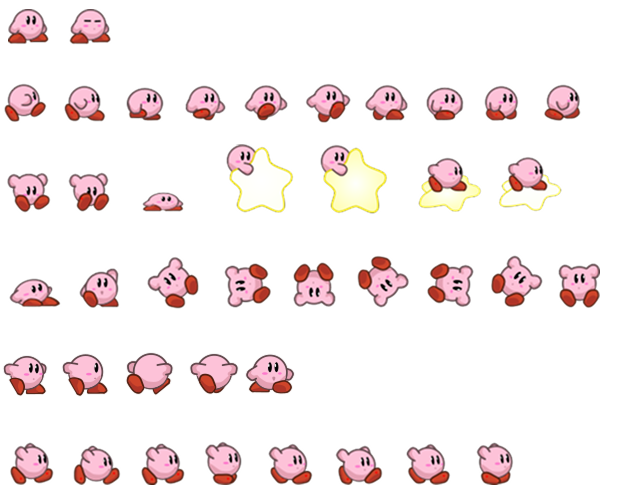
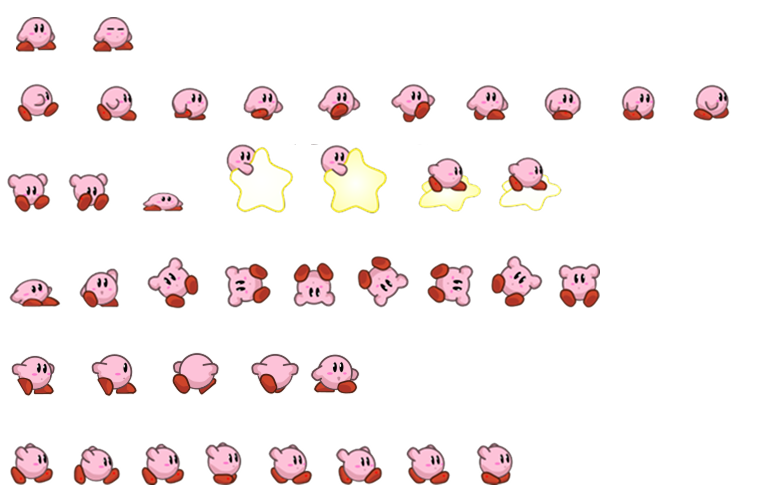
커비 스케일 수정

diff --git a/src/setup/stage_config.js b/src/setup/stage_config.js
@@ -20,8 +20,8 @@ function createStageUnitConfig(stage, imageList = [], spriteSheetList = []) {
             // 유닛 0번 애니메이션
             idle: {
               frameCount: 2,
-              frameWidth: 60,
-              frameHeight: 48,
+              frameWidth: 75,
+              frameHeight: 60,
               startX: 0,
               startY: 0,
               speed: 10,
@@ -29,20 +29,20 @@ function createStageUnitConfig(stage, imageList = [], spriteSheetList = []) {
             },
             walk: {
               frameCount: 10,
-              frameWidth: 60,
-              frameHeight: 48,
+              frameWidth: 75,
+              frameHeight: 60,
               startX: 0,
-              startY: 78,
+              startY: 67,
               speed: 5,
               scale: 0.3,
               spacing: 0,
             },
             attack: {
               frameCount: 4,
-              frameWidth: 60,
-              frameHeight: 48,
+              frameWidth: 75,
+              frameHeight: 60,
               startX: 0,
-              startY: 350,
+              startY: 342,
               speed: 3,
               scale: 0.3,
               spacing: 0,
@@ -74,7 +74,7 @@ function createStageUnitConfig(stage, imageList = [], spriteSheetList = []) {
               scale: 1.0,
             },
             walk: {
-              frameCount: 10,
+              frameCount: 9,
               frameWidth: 132,
               frameHeight: 106,
               startX: 0,
